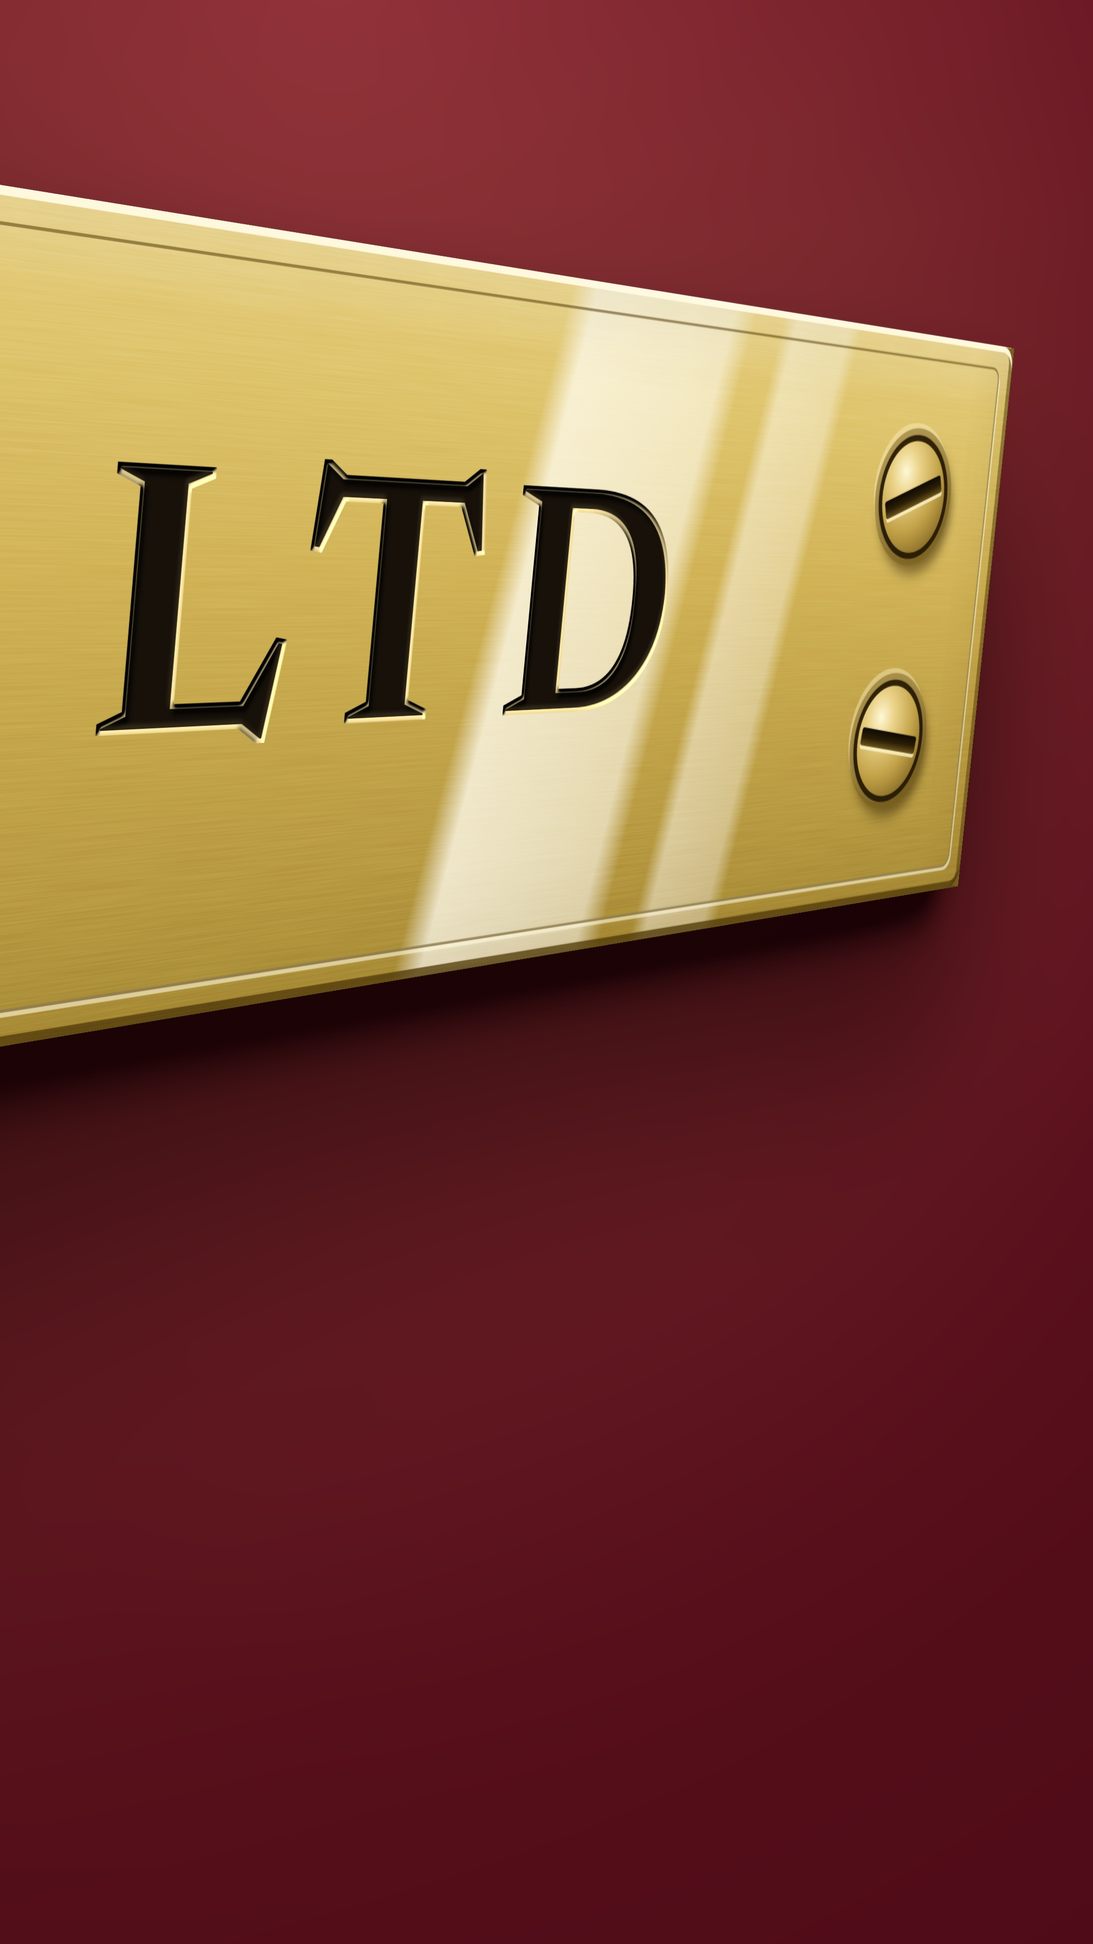
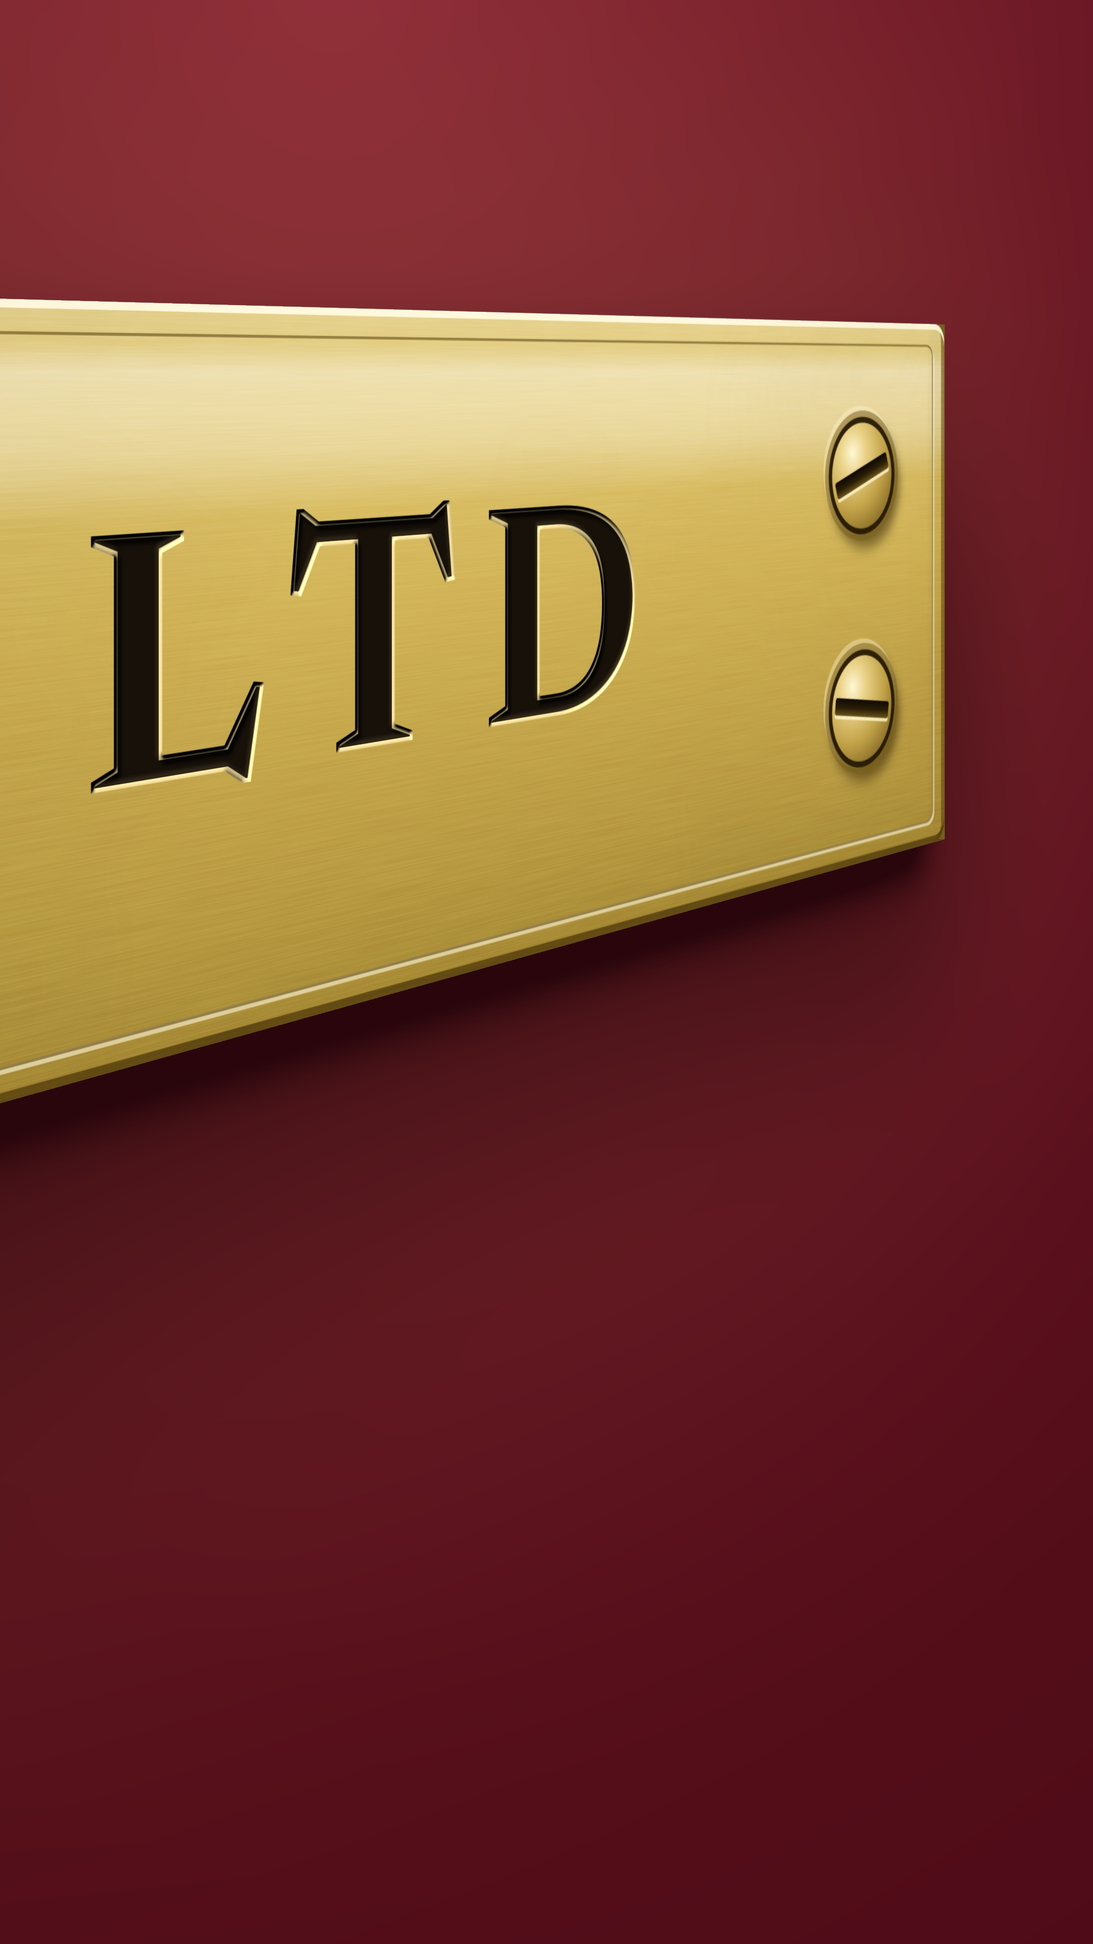
Story 13 Nov evening (three letters, limited company details): reworked after Lee asked for it to be posted; frames rebuilt, ready to publish
Claude-Session: https://claude.ai/code/session_015dF8tiSGpLviYw4haP9kMM

Changed region(s): [[0.0, 0.0938, 0.9306, 0.5625]]

diff --git a/posts/stories/2026-11-13-1830-three-letters/art/slide-03.html b/posts/stories/2026-11-13-1830-three-letters/art/slide-03.html
@@ -1,14 +1,14 @@
 <style>
 .frame{background:#3A0710;color:#F5E9D6;font-family:Outfit}
 .bg{position:absolute;left:0;top:0;width:1080px;height:1920px}
-.h{position:absolute;left:64px;font:700 132px/1 Outfit;letter-spacing:-.035em;color:#F5E9D6}
+.h{position:absolute;left:64px;font:700 124px/1.02 Outfit;letter-spacing:-.02em;color:#F5E9D6}
 .h b{font-weight:700;color:#E6CB72}
 
-.foot{position:absolute;left:64px;right:64px;top:1494px;height:106px}
-.foot p{position:absolute;left:0;font:700 50px/1 Outfit;letter-spacing:-.02em;color:#F5E9D6;top:0}
-.foot p+p{font:500 32px/1 Outfit;letter-spacing:0;color:rgba(245,233,214,.74);top:68px}
-.foot .nx-logo{position:absolute;right:0;top:9px;height:36px}
+.foot{position:absolute;left:64px;right:64px;top:1468px;height:110px}
+.foot p{position:absolute;left:0;top:0;font:700 46px/1 Outfit;letter-spacing:-.01em;color:#F5E9D6;white-space:nowrap}
+.foot p+p{top:66px;font:500 36px/1 Outfit;letter-spacing:0;color:rgba(245,233,214,.84)}
+.foot .nx-logo{position:absolute;right:0;top:7px;height:34px}
 </style><img class="bg" src="{{post}}/art/bg-03.jpg">
-<div class="h" style="top:292px">Your website<br>has to show<br><b>all four.</b></div>
+<div class="h" style="top:292px">Your website has<br>to show <b>all four.</b></div>
 <div class="foot"><p>Check your footer tonight.</p><p>Source: gov.uk, Running a limited company</p><!--logo:#F5E9D6,#E6CB72--></div>
 <!--grain:0.04-->

diff --git a/posts/stories/2026-11-13-1830-three-letters/art/slide-02.html b/posts/stories/2026-11-13-1830-three-letters/art/slide-02.html
@@ -1,8 +1,8 @@
 <style>
 .frame{background:#3A0710;color:#F5E9D6;font-family:Outfit}
 .bg{position:absolute;left:0;top:0;width:1080px;height:1920px}
-.h{position:absolute;left:64px;font:700 132px/1 Outfit;letter-spacing:-.035em;color:#F5E9D6}
+.h{position:absolute;left:64px;font:700 124px/1.02 Outfit;letter-spacing:-.02em;color:#F5E9D6}
 .h b{font-weight:700;color:#E6CB72}
 </style><img class="bg" src="{{post}}/art/bg-02.jpg">
-<div class="h" style="top:1178px">Those three<br>letters come<br>with <b>a list.</b></div>
+<div class="h" style="top:1196px">Those three<br>letters come<br>with <b>a list.</b></div>
 <!--grain:0.04-->

diff --git a/posts/stories/2026-11-13-1830-three-letters/art/slide-01.html b/posts/stories/2026-11-13-1830-three-letters/art/slide-01.html
@@ -1,7 +1,7 @@
 <style>
 .frame{background:#3A0710;color:#F5E9D6;font-family:Outfit}
 .bg{position:absolute;left:0;top:0;width:1080px;height:1920px}
-.h{position:absolute;left:64px;font:700 132px/1 Outfit;letter-spacing:-.035em;color:#F5E9D6}
+.h{position:absolute;left:64px;font:700 124px/1.02 Outfit;letter-spacing:-.02em;color:#F5E9D6}
 .h b{font-weight:700;color:#E6CB72}
 </style><img class="bg" src="{{post}}/art/bg-01.jpg">
 <div class="h" style="top:292px">Limited<br>company?</div>

diff --git a/posts/stories/2026-11-13-1830-three-letters/art/build.py b/posts/stories/2026-11-13-1830-three-letters/art/build.py
@@ -45,13 +45,13 @@ def face_css(q):
     return f"""
 html,body{{background:transparent}}
 .fin{{position:absolute;left:0;top:0;border-radius:{p(7)};overflow:hidden;
-  background:
-   linear-gradient(104deg,rgba(255,252,236,0) 0 var(--s0,58%),rgba(255,252,236,.78) calc(var(--s0,58%) + .6%),rgba(255,252,236,.62) calc(var(--s0,58%) + 4.2%),rgba(255,252,236,0) calc(var(--s0,58%) + 4.8%),rgba(255,252,236,0) calc(var(--s0,58%) + 5.6%),rgba(255,252,236,.5) calc(var(--s0,58%) + 6%),rgba(255,252,236,.4) calc(var(--s0,58%) + 7.6%),rgba(255,252,236,0) calc(var(--s0,58%) + 8%) 100%),
+  background:var(--gloss,linear-gradient(#0000,#0000)),
    linear-gradient(104deg,rgba(64,44,6,0) 0 var(--d0,10%),rgba(64,44,6,.34) calc(var(--d0,10%) + 14%),rgba(64,44,6,.05) calc(var(--d0,10%) + 30%),rgba(64,44,6,0) calc(var(--d0,10%) + 40%) 100%),
    linear-gradient(180deg,#F3DF98 0%,#E0C56C 12%,#CFAF52 44%,#C2A248 62%,#A98A37 100%);
   box-shadow:inset 0 {p(2.2)} 0 rgba(255,250,224,.95),inset {p(2.2)} 0 0 rgba(255,246,206,.7),
    inset 0 {p(-2.4)} 0 rgba(78,56,10,.8),inset {p(-2.2)} 0 0 rgba(78,56,10,.55),inset 0 0 {p(40)} rgba(92,66,12,.28)}}
 .fin .tex{{position:absolute;inset:0;width:100%;height:100%;mix-blend-mode:overlay;opacity:.3}}
+.fin .pat{{position:absolute;inset:0;width:100%;height:100%;mix-blend-mode:multiply;opacity:.07}}
 .fin .cham{{position:absolute;inset:{p(9)};border-radius:{p(4)};box-shadow:0 0 0 {p(.8)} rgba(84,60,10,.55),{p(.9)} {p(1.2)} 0 {p(.8)} rgba(255,250,222,.6)}}
 .eng{{position:absolute;font-family:News;font-weight:700;color:#000;text-transform:uppercase;white-space:nowrap}}
 .screw{{position:absolute;width:{p(40)};height:{p(40)};border-radius:50%;
@@ -60,6 +60,23 @@ html,body{{background:transparent}}
 .screw:before{{content:"";position:absolute;left:5%;right:5%;top:50%;height:16%;margin-top:-8%;border-radius:{p(1)};
   background:linear-gradient(180deg,#0E0902 0%,#2A1E06 55%,#6B531A 100%);box-shadow:0 {p(1.3)} 0 rgba(255,246,206,.8);transform:rotate(var(--r,24deg))}}
 """
+
+
+def gloss(kind, s0):
+    """What the polished face reflects. Each view gets its own, and it is kept off the three letters."""
+    if kind == "window":   # two panes of a window and the bar between them
+        return (f"linear-gradient(104deg,rgba(255,252,236,0) 0 {s0}%,rgba(255,252,236,.78) {s0+.6}%,rgba(255,252,236,.62) {s0+4.2}%,rgba(255,252,236,0) {s0+4.8}%,"
+                f"rgba(255,252,236,0) {s0+5.6}%,rgba(255,252,236,.5) {s0+6}%,rgba(255,252,236,.4) {s0+7.6}%,rgba(255,252,236,0) {s0+8}% 100%)")
+    if kind == "soft":     # one broad, soft band of sky
+        return f"linear-gradient(98deg,rgba(255,252,236,0) 0 {s0}%,rgba(255,252,236,.5) {s0+7}%,rgba(255,252,236,.42) {s0+10}%,rgba(255,252,236,0) {s0+20}% 100%)"
+    if kind == "sky":      # a strip of sky along the top, above the letters
+        return "linear-gradient(180deg,rgba(255,252,236,0) 5%,rgba(255,252,236,.5) 9%,rgba(255,252,236,.34) 20%,rgba(255,252,236,0) 29%)"
+    if kind == "edge":     # light catching one end only
+        return f"linear-gradient(90deg,rgba(255,252,236,0) 0 {s0}%,rgba(255,252,236,.42) 100%)"
+    return "linear-gradient(#0000,#0000)"
+
+
+TEX = '<svg class="tex"><rect width="100%" height="100%" filter="url(#grainb)"/></svg><svg class="pat"><rect width="100%" height="100%" filter="url(#patina)"/></svg><div class="cham"></div>'
 
 
 def screws(q, W, H, ends="lr"):
@@ -71,23 +88,26 @@ def screws(q, W, H, ends="lr"):
 
 
 NAME = (1840, 204)     # the name plate, in plate units
-LIST = (930, 456)      # the small-print plate
+LIST = (2400, 690)      # the small-print plate
 
 
-def name_face(q, s0="58%", d0="10%"):
+def name_face(q, gl=("window", 91), d0="30%"):
     W, H = NAME[0] * q, NAME[1] * q
-    return W, H, f"""<div class="fin" style="width:{W:.1f}px;height:{H:.1f}px;--s0:{s0};--d0:{d0}">
-<svg class="tex"><rect width="100%" height="100%" filter="url(#grainb)"/></svg><div class="cham"></div>{screws(q, W, H)}
-<div class="eng" style="right:{180*q:.1f}px;top:{56*q:.1f}px;font-size:{100*q:.1f}px;line-height:1;letter-spacing:.1em;filter:url(#eng)">Kittiwake &amp; Quay <span style="letter-spacing:.025em">L</span><span style="letter-spacing:.085em">T</span>D</div>
+    return W, H, f"""<div class="fin" style="width:{W:.1f}px;height:{H:.1f}px;--gloss:{gloss(*gl)};--d0:{d0}">
+{TEX}{screws(q, W, H)}
+<div class="eng" style="right:{180*q:.1f}px;top:{56*q:.1f}px;font-size:{100*q:.1f}px;line-height:1;letter-spacing:.1em;word-spacing:.3em;filter:url(#eng)">Kittiwake &amp; Quay <span style="letter-spacing:.07em">L</span><span style="letter-spacing:.1em">T</span>D</div>
 </div>""", [engrave("eng", 1.25 * q)]
 
 
-def list_face(q, s0="12%", d0="52%"):
+def list_face(q, gl=("sky", 0), d0="56%"):
+    """The second plate: the four things, one to a line. A long plate with its fixings top and bottom at the middle."""
     W, H = LIST[0] * q, LIST[1] * q
-    rows = [("Registered in", 94), ("England and Wales", 149), ("Company No. 24601357", 226), ("Registered office", 303), ("12 Quay Row, Sunderland", 358)]
-    txt = "".join(f'<div class="eng" style="left:0;width:100%;text-align:center;top:{(y-27)*q:.1f}px;font-size:{43*q:.1f}px;line-height:1;letter-spacing:.07em;filter:url(#eng2)">{t}</div>' for t, y in rows)
-    return W, H, f"""<div class="fin" style="width:{W:.1f}px;height:{H:.1f}px;--s0:{s0};--d0:{d0}">
-<svg class="tex"><rect width="100%" height="100%" filter="url(#grainb)"/></svg><div class="cham"></div>{screws(q, W, H)}{txt}</div>""", [engrave("eng2", .62 * q)]
+    rows = [("Kittiwake &amp; Quay Ltd", 86, 158, "eng", ".1em"), ("Registered in England and Wales", 56, 297, "eng2", ".07em"),
+            ("Registered office: 12 Quay Row", 56, 388, "eng2", ".07em"), ("Company No. 24601357", 56, 479, "eng2", ".07em")]
+    txt = "".join(f'<div class="eng" style="left:0;width:100%;text-align:center;top:{y*q:.1f}px;font-size:{f*q:.1f}px;line-height:1;letter-spacing:{ls};filter:url(#{fid})">{t}</div>' for t, f, y, fid, ls in rows)
+    sc = "".join(f'<i class="screw" style="left:{(LIST[0]/2-20)*q:.1f}px;{e}:{34*q:.1f}px;--r:{r}deg"></i>' for e, r in (("top", -14), ("bottom", 52)))
+    return W, H, f"""<div class="fin" style="width:{W:.1f}px;height:{H:.1f}px;--gloss:{gloss(*gl)};--d0:{d0}">
+{TEX}{sc}{txt}</div>""", [engrave("eng", 1.15 * q), engrave("eng2", .95 * q)]
 
 
 def shoot(jobs):
@@ -104,7 +124,9 @@ def shoot(jobs):
                    f"html,body{{-webkit-font-smoothing:antialiased;text-rendering:geometricPrecision}}{face_css(q)}</style></head><body>"
                    f"<svg width='0' height='0' style='position:absolute'><defs>{''.join(filters)}"
                    f"<filter id='grainb' x='0' y='0' width='100%' height='100%'><feTurbulence type='fractalNoise' baseFrequency='{0.012/q*2.5:.4f} {0.85/q*2.5:.3f}' numOctaves='2' seed='7'/>"
-                   f"<feColorMatrix values='0 0 0 0 .5  0 0 0 0 .5  0 0 0 0 .5  0 0 0 1.3 -.3'/></filter></defs></svg><div style='position:absolute;left:{-cx}px;top:0'>{html}</div></body></html>")
+                   f"<feColorMatrix values='0 0 0 0 .5  0 0 0 0 .5  0 0 0 0 .5  0 0 0 1.3 -.3'/></filter>"
+                   f"<filter id='patina' x='0' y='0' width='100%' height='100%'><feTurbulence type='fractalNoise' baseFrequency='{0.0035/q:.5f} {0.006/q:.5f}' numOctaves='3' seed='11'/>"
+                   f"<feColorMatrix values='0 0 0 0 .42  0 0 0 0 .32  0 0 0 0 .1  0 0 0 2.2 -.95'/></filter></defs></svg><div style='position:absolute;left:{-cx}px;top:0'>{html}</div></body></html>")
             tmp = ART / f".{name}.html"; tmp.write_text(doc)
             pg = b.new_page(viewport={"width": int(W) - cx + 2, "height": int(H) + 2}, device_scale_factor=1)
             pg.goto(tmp.as_uri()); pg.evaluate("document.fonts.ready"); pg.wait_for_timeout(250)
@@ -216,7 +238,7 @@ def render(name, cam, door, parts):
     fxw = cv2.warpPerspective(fx, M, (FW * SS, FH * SS), flags=cv2.INTER_LINEAR, borderMode=cv2.BORDER_CONSTANT, borderValue=0)
     canvas = paint(light)
     canvas = canvas + (hexc("#D8B25A") - canvas) * fxw[..., 0:1]
-    canvas = canvas * (1 - fxw[..., 1:2]) + hexc("#150003") * fxw[..., 1:2]
+    canvas = canvas * (1 - fxw[..., 1:2]) + hexc("#24040A") * fxw[..., 1:2]
     side = {"t": ("#FFF3C4", "#D9BC62"), "l": ("#F6E6A6", "#C9AA50"), "b": ("#7B6220", "#3E2F0B"), "r": ("#9A7C2E", "#4A390F")}
     for tex, x, y, w, h in parts:
         quads = {"t": [(x, y, T), (x + w, y, T), (x + w, y, 0), (x, y, 0)], "b": [(x, y + h, T), (x + w, y + h, T), (x + w, y + h, 0), (x, y + h, 0)],
@@ -238,45 +260,46 @@ def render(name, cam, door, parts):
 HEAD = f"""
 .frame{{background:#3A0710;color:{CREAM};font-family:Outfit}}
 .bg{{position:absolute;left:0;top:0;width:1080px;height:1920px}}
-.h{{position:absolute;left:64px;font:700 132px/1 Outfit;letter-spacing:-.035em;color:{CREAM}}}
+.h{{position:absolute;left:64px;font:700 124px/1.02 Outfit;letter-spacing:-.02em;color:{CREAM}}}
 .h b{{font-weight:700;color:{BRASS}}}
 """
 
 
-def frame1(tex, n="bg-01", k=3.2, at=(505, 1180), ry=-60, rx=2, rz=0, d=1100, vp=(604, 1190), pivx=368):
+def frame1(tex, n="bg-01", k=2.4, at=(48, 1250), ry=62, rx=0, rz=0, d=2400, vp=(900, 950), crop=1000):
+    """The right-hand end of the plate from the left: QUAY LTD, the end and its two screws. Frame 2 is the same view, closer."""
     nm = NAME
-    cam = Cam(k=k, piv=(nm[0] - pivx, nm[1] / 2), at=at, ry=ry, rx=rx, rz=rz, d=d, vp=vp)
-    door = door_texture([(0, 0, *nm)], light=(300, 60, 1500, 2000), span=(-5200, -3600, 4400, 3600), q=0.4)
-    render(n, cam, door, [(tex["name"], 0, 0, *nm)])
+    x0 = nm[0] - crop
+    cam = Cam(k=k, piv=(1030, nm[1] / 2), at=at, ry=ry, rx=rx, rz=rz, d=d, vp=vp)
+    door = door_texture([(x0 - 600, 0, crop + 600, nm[1])], light=(300, 60, 1500, 2000), span=(nm[0] - 3200, -2600, nm[0] + 2600, 2800), q=0.4)
+    render(n, cam, door, [(tex["name_macro"], x0, 0, crop, nm[1])])
     return f"""<style>{HEAD}</style><img class="bg" src="{{{{post}}}}/art/{n}.jpg">
 <div class="h" style="top:292px">Limited<br>company?</div>
 <!--grain:0.04-->"""
 
 
-def frame2(tex, n="bg-02", k=4.0, at=(54, 610), ry=57, rx=-7, rz=0, d=2600, vp=(900, 600), crop=760):
+def frame2(tex, n="bg-02", k=3.7, at=(62, 676), ry=57, rx=0, rz=0, d=2600, vp=(900, 366), crop=1000):
     nm = NAME
     x0 = nm[0] - crop
     cam = Cam(k=k, piv=(nm[0] - 417, nm[1] / 2), at=at, ry=ry, rx=rx, rz=rz, d=d, vp=vp)
     door = door_texture([(x0 - 400, 0, crop + 400, nm[1])], light=(330, -60, 1500, 2000), span=(nm[0] - 2200, -2000, nm[0] + 2600, 2400))
     render(n, cam, door, [(tex["name_macro"], x0, 0, crop, nm[1])])
     return f"""<style>{HEAD}</style><img class="bg" src="{{{{post}}}}/art/{n}.jpg">
-<div class="h" style="top:1178px">Those three<br>letters come<br>with <b>a list.</b></div>
+<div class="h" style="top:1196px">Those three<br>letters come<br>with <b>a list.</b></div>
 <!--grain:0.04-->"""
 
 
-def frame3(tex, n="bg-03", k=0.95, at=(1013, 846), ry=-12, rx=-6, rz=0, d=2400, vp=(540, 1000), gap=44):
-    nm, ls = NAME, LIST
-    lx, ly = nm[0] - ls[0], nm[1] + gap
-    cam = Cam(k=k, piv=(nm[0], nm[1] / 2), at=at, ry=ry, rx=rx, rz=rz, d=d, vp=vp)
-    door = door_texture([(0, 0, *nm), (lx, ly, *ls)], light=(320, 240, 1500, 2000), span=(nm[0] - 2600, -2200, nm[0] + 1400, 2600))
-    render(n, cam, door, [(tex["name"], 0, 0, *nm), (tex["list"], lx, ly, *ls)])
+def frame3(tex, n="bg-03", k=0.77, at=(528, 1030), ry=-20, rx=9, rz=-8, d=2200, vp=(540, 1030)):
+    ls = LIST
+    cam = Cam(k=k, piv=(ls[0] / 2, ls[1] / 2), at=at, ry=ry, rx=rx, rz=rz, d=d, vp=vp)
+    door = door_texture([(0, 0, *ls)], light=(320, 240, 1500, 2000), span=(-1600, -2600, ls[0] + 1600, 3200), q=0.4)
+    render(n, cam, door, [(tex["list"], 0, 0, *ls)])
     return f"""<style>{HEAD}
-.foot{{position:absolute;left:64px;right:64px;top:1494px;height:106px}}
-.foot p{{position:absolute;left:0;font:700 50px/1 Outfit;letter-spacing:-.02em;color:{CREAM};top:0}}
-.foot p+p{{font:500 32px/1 Outfit;letter-spacing:0;color:rgba(245,233,214,.74);top:68px}}
-.foot .nx-logo{{position:absolute;right:0;top:9px;height:36px}}
+.foot{{position:absolute;left:64px;right:64px;top:1468px;height:110px}}
+.foot p{{position:absolute;left:0;top:0;font:700 46px/1 Outfit;letter-spacing:-.01em;color:{CREAM};white-space:nowrap}}
+.foot p+p{{top:66px;font:500 36px/1 Outfit;letter-spacing:0;color:rgba(245,233,214,.84)}}
+.foot .nx-logo{{position:absolute;right:0;top:7px;height:34px}}
 </style><img class="bg" src="{{{{post}}}}/art/{n}.jpg">
-<div class="h" style="top:292px">Your website<br>has to show<br><b>all four.</b></div>
+<div class="h" style="top:292px">Your website has<br>to show <b>all four.</b></div>
 <div class="foot"><p>Check your footer tonight.</p><p>Source: gov.uk, Running a limited company</p><!--logo:{CREAM},{BRASS}--></div>
 <!--grain:0.04-->"""
 
@@ -286,8 +309,7 @@ def frames(tex):
 
 
 def main(only=None):
-    tex = shoot({"name": (5.0, name_face, {"s0": "80%", "d0": "30%"}),
-                 "name_macro": (9.0, name_face, {"s0": "84%", "d0": "34%", "crop": 760}),
+    tex = shoot({"name_macro": (9.0, name_face, {"gl": ("sky", 0), "d0": "40%", "crop": 1000}),
                  "list": (3.0, list_face, {})})
     for i, html in enumerate(frames(tex), 1):
         (ART / f"slide-{i:02d}.html").write_text(html)

diff --git a/posts/stories/2026-11-13-1830-three-letters/sources.md b/posts/stories/2026-11-13-1830-three-letters/sources.md
@@ -4,9 +4,9 @@ Story: a brass nameplate for a made-up limited company, then the four things a l
 
 ## Words on the frames
 
-1. "Limited company?" (the plate reads "Kittiwake & Quay Ltd")
+1. "Limited company?" (the plate reads "Quay Ltd", the end of "Kittiwake & Quay Ltd")
 2. "Those three letters come with a list." (the plate reads "Ltd")
-3. "Your website has to show all four. Check your footer tonight. Source: gov.uk, Running a limited company" (the plates read "Kittiwake & Quay Ltd" and "Registered in England and Wales. Company No. 24601357. Registered office 12 Quay Row, Sunderland")
+3. "Your website has to show all four. Check your footer tonight. Source: gov.uk, Running a limited company" (the plate reads "Kittiwake & Quay Ltd. Registered in England and Wales. Registered office: 12 Quay Row. Company No. 24601357")
 
 ## Claim
 
@@ -15,11 +15,11 @@ Story: a brass nameplate for a made-up limited company, then the four things a l
 - Source: GOV.UK, "Running a limited company: your responsibilities", section 6, "Signs, stationery and promotional material". URL: https://www.gov.uk/running-a-limited-company/signs-stationery-and-promotional-material (found by web search in this run and opened from that result, 13 Nov 2026; the page loaded normally).
 - As the page states it, under "Stationery and promotional material": business letters, order forms and websites must show the company's registered number; its registered office address; where the company is registered (England and Wales, Scotland or Northern Ireland); and the fact that it's a limited company, usually by spelling out the company's full name including "Limited" or "Ltd". Exact text nearby: "You must include your company's name on all company documents, publicity and letters."
 - Page dates: first published 3 Jul 2012, last public update 29 Jan 2025, last touched 23 Oct 2026. It is standing government guidance, not a statistic, so the 24-month rule is met by the page being current.
-- How the frames use it. Frame 2: "Those three letters come with a list" (the list is the four items above). Frame 3: "Your website has to show all four". The two plates in frame 3 show the four as an example: "Ltd" in the name (the fact that it is a limited company), "Registered in England and Wales" (where it is registered), "Company No." (the registered number) and "Registered office" (the address).
+- How the frames use it. Frame 2: "Those three letters come with a list" (the list is the four items above). Frame 3: "Your website has to show all four". The plate in frame 3 shows the four as an example, one to a line: the name with "Ltd" (the fact that it is a limited company), "Registered in England and Wales" (where it is registered), "Registered office" (the address) and "Company No." (the registered number).
 - What the frames do not say. They do not say where on the page the details must go: "Check your footer tonight" is a prompt to look, and the footer is only the usual place. They do not say a door sign needs these details (the same GOV.UK page asks only for a sign showing the company name). They give no legal advice and name no penalty. The same rule covers business letters and order forms; the Story only talks about websites.
 
 ## The made-up business
 
-Kittiwake & Quay Ltd is invented for this Story. Web searches in this run for "Kittiwake & Quay" and "Kittiwake and Quay Limited" found no company of that name (there are companies called Kittiwake Limited and others with Kittiwake in the name, none with this name). "12 Quay Row, Sunderland" is a made-up address: a search for "Quay Row" Sunderland found no such street. The company number 24601357 is a dummy: Companies House numbers for England and Wales have not reached the 24 million range (this was not looked up in this run; it is from general knowledge, and the number is only set dressing on a made-up plate).
+Kittiwake & Quay Ltd is invented for this Story. Web searches in this run for "Kittiwake & Quay" and "Kittiwake and Quay Limited" found no company of that name (there are companies called Kittiwake Limited and others with Kittiwake in the name, none with this name). "12 Quay Row" is a made-up address with no town given: a search for "Quay Row" Sunderland found no such street. The company number 24601357 is a dummy: Companies House numbers for England and Wales have not reached the 24 million range (this was not looked up in this run; it is from general knowledge, and the number is only set dressing on a made-up plate).
 
 Self-check: the frames say nothing beyond the claim above. No "small business", no person named, no orange (brass is drawn as yellow gold, #E6CB72 for the accent).
